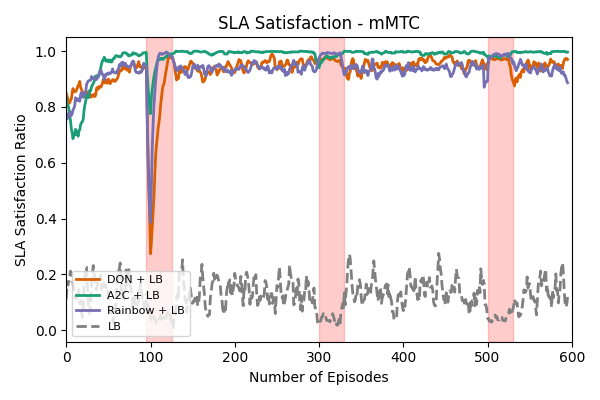
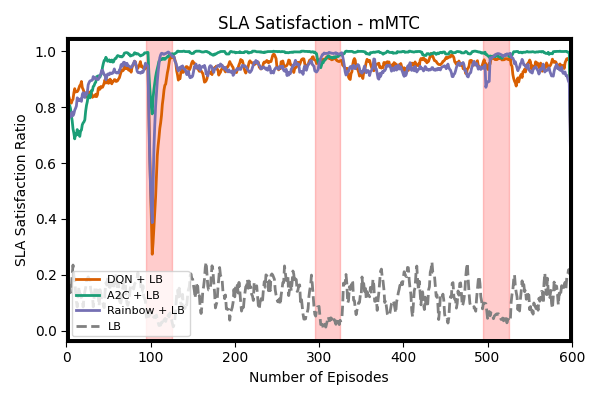
Stable ver (29Jul)

Changed region(s): [[0.06, 0.09, 0.96, 0.87]]

diff --git a/Compare.py b/Compare.py
@@ -149,7 +149,7 @@ mean_a2c_mmtc_blocks = np.nanmean(a2c_mmtc_blocks, axis=0)
 mean_rdqn_mmtc_blocks = np.nanmean(rdqn_mmtc_blocks, axis=0)
 
 def smooth(data, window=5):
-    return np.convolve(data, np.ones(window)/window, mode='valid')
+    return np.convolve(data, np.ones(window)/window, mode='same')
 
 def adjust_std_and_smooth(mean_data, std_data):
     smoothed_mean = smooth(mean_data)
@@ -374,14 +374,14 @@ def plot_results():
     dqn_mean, dqn_std = adjust_std_and_smooth(mean_dqn, std_dqn)
     a2c_mean, a2c_std = adjust_std_and_smooth(mean_a2c, std_a2c)
     rdqn_mean, rdqn_std = adjust_std_and_smooth(mean_rdqn, std_rdqn)
-    baseline_mean = smooth(baseline_rewards)
+    baseline_mean = smooth(baseline_rewards, window=5)
 
     # --- Compute ratio metric: min_util / max_util for each method ---
     with np.errstate(invalid='ignore', divide='ignore'):
-        dqn_ratio = smooth(np.nan_to_num(mean_dqn_min / mean_dqn_max, nan=0.0, posinf=0.0, neginf=0.0))
-        a2c_ratio = smooth(np.nan_to_num(mean_a2c_min / mean_a2c_max, nan=0.0, posinf=0.0, neginf=0.0))
-        rdqn_ratio = smooth(np.nan_to_num(mean_rdqn_min / mean_rdqn_max, nan=0.0, posinf=0.0, neginf=0.0))
-        baseline_ratio = smooth(np.nan_to_num(baseline_min / baseline_max, nan=0.0, posinf=0.0, neginf=0.0))
+        dqn_ratio = smooth(np.nan_to_num(mean_dqn_min / mean_dqn_max, nan=0.0, posinf=0.0, neginf=0.0), window=5)
+        a2c_ratio = smooth(np.nan_to_num(mean_a2c_min / mean_a2c_max, nan=0.0, posinf=0.0, neginf=0.0), window=5)
+        rdqn_ratio = smooth(np.nan_to_num(mean_rdqn_min / mean_rdqn_max, nan=0.0, posinf=0.0, neginf=0.0), window=5)
+        baseline_ratio = smooth(np.nan_to_num(baseline_min / baseline_max, nan=0.0, posinf=0.0, neginf=0.0), window=5)
 
     plt.plot(dqn_ratio, label='DQN + LB', color='#d95f02', linewidth=2, linestyle='-')
     plt.plot(a2c_ratio, label='A2C + LB', color='#1b9e77', linewidth=2, linestyle='-')
@@ -389,11 +389,16 @@ def plot_results():
     plt.plot(baseline_ratio, label='LB', color='gray', linewidth=2, linestyle='--')
 
     plt.xlim(0, 600)
+    plt.axvline(0, color='black', linewidth=5)
+    plt.axvline(600, color='black', linewidth=5)
+    ymin, ymax = plt.ylim()
+    plt.axhline(ymin, color='black', linewidth=5)
+    plt.axhline(ymax, color='black', linewidth=5)
     plt.title("Network Slicing Load Balance Ratio (min/max)")
     plt.xlabel("Number of Episodes")
     plt.ylabel("Min/Max Utilization Ratio")
     # --- Mark disruption windows with shaded regions ---
-    for start, duration in [(95, 30), (300, 30), (500, 30)]:
+    for start, duration in [(95, 30), (295, 30), (495, 30)]:
         plt.axvspan(start, start + duration, color='red', alpha=0.2, label=None)
     plt.legend()
     plt.tight_layout()
@@ -402,14 +407,19 @@ def plot_results():
 
 def plot_std_metric():
     plt.figure(figsize=(6, 4))
-    plt.plot(smooth(mean_dqn_std), label='DQN + LB', color='#d95f02', linewidth=2, linestyle='-')
-    plt.plot(smooth(mean_a2c_std), label='A2C + LB', color='#1b9e77', linewidth=2, linestyle='-')
-    plt.plot(smooth(mean_rdqn_std), label='Rainbow + LB', color='#7570b3', linewidth=2, linestyle='-')
+    plt.plot(smooth(mean_dqn_std, window=5), label='DQN + LB', color='#d95f02', linewidth=2, linestyle='-')
+    plt.plot(smooth(mean_a2c_std, window=5), label='A2C + LB', color='#1b9e77', linewidth=2, linestyle='-')
+    plt.plot(smooth(mean_rdqn_std, window=5), label='Rainbow + LB', color='#7570b3', linewidth=2, linestyle='-')
     plt.title("Std Dev of Slice Utilization")
     plt.xlabel("Number of Episodes")
     plt.ylabel("Std Dev (Normalized Usage)")
     plt.xlim(0, 600)
-    for start, duration in [(95, 30), (300, 30), (500, 30)]:
+    plt.axvline(0, color='black', linewidth=5)
+    plt.axvline(600, color='black', linewidth=5)
+    ymin, ymax = plt.ylim()
+    plt.axhline(ymin, color='black', linewidth=5)
+    plt.axhline(ymax, color='black', linewidth=5)
+    for start, duration in [(95, 30), (295, 30), (495, 30)]:
         plt.axvspan(start, start + duration, color='red', alpha=0.2, label=None)
     plt.legend()
     plt.tight_layout()
@@ -418,16 +428,21 @@ def plot_std_metric():
 
 def plot_block_rate_urllc():
     plt.figure(figsize=(6, 4))
-    plt.plot(smooth(mean_dqn_urllc_blocks), label='DQN + LB', color='#d95f02', linestyle='-', linewidth=2)
-    plt.plot(smooth(mean_a2c_urllc_blocks), label='A2C + LB', color='#1b9e77', linestyle='-', linewidth=2)
-    plt.plot(smooth(mean_rdqn_urllc_blocks), label='Rainbow + LB', color='#7570b3', linestyle='-', linewidth=2)
-    plt.plot(smooth(baseline_urllc_blocks), label='LB', color='gray', linewidth=2, linestyle='--')
+    plt.plot(smooth(mean_dqn_urllc_blocks, window=5), label='DQN + LB', color='#d95f02', linestyle='-', linewidth=2)
+    plt.plot(smooth(mean_a2c_urllc_blocks, window=5), label='A2C + LB', color='#1b9e77', linestyle='-', linewidth=2)
+    plt.plot(smooth(mean_rdqn_urllc_blocks, window=5), label='Rainbow + LB', color='#7570b3', linestyle='-', linewidth=2)
+    plt.plot(smooth(baseline_urllc_blocks, window=5), label='LB', color='gray', linewidth=2, linestyle='--')
     plt.title("Block Rate - URLLC Slice")
     plt.xlabel("Number of Episodes")
     plt.ylabel("Mean Block Count per Episode")
     plt.xlim(0, 600)
+    plt.axvline(0, color='black', linewidth=5)
+    plt.axvline(600, color='black', linewidth=5)
+    ymin, ymax = plt.ylim()
+    plt.axhline(ymin, color='black', linewidth=5)
+    plt.axhline(ymax, color='black', linewidth=5)
     # --- Mark disruption windows with shaded regions ---
-    for start, duration in [(95, 30), (300, 30), (500, 30)]:
+    for start, duration in [(95, 30), (295, 30), (495, 30)]:
         plt.axvspan(start, start + duration, color='red', alpha=0.2, label=None)
     plt.legend()
     plt.tight_layout()
@@ -436,16 +451,21 @@ def plot_block_rate_urllc():
 
 def plot_block_rate_embb():
     plt.figure(figsize=(6, 4))
-    plt.plot(smooth(mean_dqn_embb_blocks), label='DQN + LB', color='#d95f02', linestyle='-', linewidth=2)
-    plt.plot(smooth(mean_a2c_embb_blocks), label='A2C + LB', color='#1b9e77', linestyle='-', linewidth=2)
-    plt.plot(smooth(mean_rdqn_embb_blocks), label='Rainbow + LB', color='#7570b3', linestyle='-', linewidth=2)
-    plt.plot(smooth(baseline_embb_blocks), label='LB', color='gray', linewidth=2, linestyle='--')
+    plt.plot(smooth(mean_dqn_embb_blocks, window=5), label='DQN + LB', color='#d95f02', linestyle='-', linewidth=2)
+    plt.plot(smooth(mean_a2c_embb_blocks, window=5), label='A2C + LB', color='#1b9e77', linestyle='-', linewidth=2)
+    plt.plot(smooth(mean_rdqn_embb_blocks, window=5), label='Rainbow + LB', color='#7570b3', linestyle='-', linewidth=2)
+    plt.plot(smooth(baseline_embb_blocks, window=5), label='LB', color='gray', linewidth=2, linestyle='--')
     plt.title("Block Rate - eMBB Slice")
     plt.xlabel("Number of Episodes")
     plt.ylabel("Mean Block Count per Episode")
     plt.xlim(0, 600)
+    plt.axvline(0, color='black', linewidth=5)
+    plt.axvline(600, color='black', linewidth=5)
+    ymin, ymax = plt.ylim()
+    plt.axhline(ymin, color='black', linewidth=5)
+    plt.axhline(ymax, color='black', linewidth=5)
     # --- Mark disruption windows with shaded regions ---
-    for start, duration in [(95, 30), (300, 30), (500, 30)]:
+    for start, duration in [(95, 30), (295, 30), (495, 30)]:
         plt.axvspan(start, start + duration, color='red', alpha=0.2, label=None)
     plt.legend(loc='upper right')
     plt.tight_layout()
@@ -454,16 +474,21 @@ def plot_block_rate_embb():
 
 def plot_block_rate_mmtc():
     plt.figure(figsize=(6, 4))
-    plt.plot(smooth(mean_dqn_mmtc_blocks), label='DQN + LB', color='#d95f02', linestyle='-', linewidth=2)
-    plt.plot(smooth(mean_a2c_mmtc_blocks), label='A2C + LB', color='#1b9e77', linestyle='-', linewidth=2)
-    plt.plot(smooth(mean_rdqn_mmtc_blocks), label='Rainbow + LB', color='#7570b3', linestyle='-', linewidth=2)
-    plt.plot(smooth(baseline_mmtc_blocks), label='LB', color='gray', linewidth=2, linestyle='--')
+    plt.plot(smooth(mean_dqn_mmtc_blocks, window=5), label='DQN + LB', color='#d95f02', linestyle='-', linewidth=2)
+    plt.plot(smooth(mean_a2c_mmtc_blocks, window=5), label='A2C + LB', color='#1b9e77', linestyle='-', linewidth=2)
+    plt.plot(smooth(mean_rdqn_mmtc_blocks, window=5), label='Rainbow + LB', color='#7570b3', linestyle='-', linewidth=2)
+    plt.plot(smooth(baseline_mmtc_blocks, window=5), label='LB', color='gray', linewidth=2, linestyle='--')
     plt.title("Block Rate - mMTC Slice")
     plt.xlabel("Number of Episodes")
     plt.ylabel("Mean Block Count per Episode")
     plt.xlim(0, 600)
+    plt.axvline(0, color='black', linewidth=5)
+    plt.axvline(600, color='black', linewidth=5)
+    ymin, ymax = plt.ylim()
+    plt.axhline(ymin, color='black', linewidth=5)
+    plt.axhline(ymax, color='black', linewidth=5)
     # --- Mark disruption windows with shaded regions ---
-    for start, duration in [(95, 30), (300, 30), (500, 30)]:
+    for start, duration in [(95, 30), (295, 30), (495, 30)]:
         plt.axvspan(start, start + duration, color='red', alpha=0.2, label=None)
     plt.legend()
     plt.tight_layout()
@@ -472,15 +497,20 @@ def plot_block_rate_mmtc():
 
 def plot_sla_satisfaction_urllc():
     plt.figure(figsize=(6, 4))
-    plt.plot(smooth(mean_dqn_urllc_sla), label='DQN + LB', color='#d95f02', linewidth=2, linestyle='-')
-    plt.plot(smooth(mean_a2c_urllc_sla), label='A2C + LB', color='#1b9e77', linewidth=2, linestyle='-')
-    plt.plot(smooth(mean_rdqn_urllc_sla), label='Rainbow + LB', color='#7570b3', linewidth=2, linestyle='-')
-    plt.plot(smooth(baseline_urllc_sla), label='LB', color='gray', linewidth=2, linestyle='--')
+    plt.plot(smooth(mean_dqn_urllc_sla, window=5), label='DQN + LB', color='#d95f02', linewidth=2, linestyle='-')
+    plt.plot(smooth(mean_a2c_urllc_sla, window=5), label='A2C + LB', color='#1b9e77', linewidth=2, linestyle='-')
+    plt.plot(smooth(mean_rdqn_urllc_sla, window=5), label='Rainbow + LB', color='#7570b3', linewidth=2, linestyle='-')
+    plt.plot(smooth(baseline_urllc_sla, window=5), label='LB', color='gray', linewidth=2, linestyle='--')
     plt.title("SLA Satisfaction - URLLC")
     plt.xlabel("Number of Episodes")
     plt.ylabel("SLA Satisfaction Ratio")
     plt.xlim(0, 600)
-    for start, duration in [(95, 30), (300, 30), (500, 30)]:
+    plt.axvline(0, color='black', linewidth=5)
+    plt.axvline(600, color='black', linewidth=5)
+    ymin, ymax = plt.ylim()
+    plt.axhline(ymin, color='black', linewidth=5)
+    plt.axhline(ymax, color='black', linewidth=5)
+    for start, duration in [(95, 30), (295, 30), (495, 30)]:
         plt.axvspan(start, start + duration, color='red', alpha=0.2, label=None)
     plt.legend(loc='lower left', fontsize=8)
     plt.tight_layout()
@@ -489,15 +519,20 @@ def plot_sla_satisfaction_urllc():
 
 def plot_sla_satisfaction_embb():
     plt.figure(figsize=(6, 4))
-    plt.plot(smooth(mean_dqn_embb_sla), label='DQN + LB', color='#d95f02', linewidth=2, linestyle='-')
-    plt.plot(smooth(mean_a2c_embb_sla), label='A2C + LB', color='#1b9e77', linewidth=2, linestyle='-')
-    plt.plot(smooth(mean_rdqn_embb_sla), label='Rainbow + LB', color='#7570b3', linewidth=2, linestyle='-')
-    plt.plot(smooth(baseline_embb_sla), label='LB', color='gray', linewidth=2, linestyle='--')
+    plt.plot(smooth(mean_dqn_embb_sla, window=5), label='DQN + LB', color='#d95f02', linewidth=2, linestyle='-')
+    plt.plot(smooth(mean_a2c_embb_sla, window=5), label='A2C + LB', color='#1b9e77', linewidth=2, linestyle='-')
+    plt.plot(smooth(mean_rdqn_embb_sla, window=5), label='Rainbow + LB', color='#7570b3', linewidth=2, linestyle='-')
+    plt.plot(smooth(baseline_embb_sla, window=5), label='LB', color='gray', linewidth=2, linestyle='--')
     plt.title("SLA Satisfaction - eMBB")
     plt.xlabel("Number of Episodes")
     plt.ylabel("SLA Satisfaction Ratio")
     plt.xlim(0, 600)
-    for start, duration in [(95, 30), (300, 30), (500, 30)]:
+    plt.axvline(0, color='black', linewidth=5)
+    plt.axvline(600, color='black', linewidth=5)
+    ymin, ymax = plt.ylim()
+    plt.axhline(ymin, color='black', linewidth=5)
+    plt.axhline(ymax, color='black', linewidth=5)
+    for start, duration in [(95, 30), (295, 30), (495, 30)]:
         plt.axvspan(start, start + duration, color='red', alpha=0.2, label=None)
     plt.legend(loc='lower left', fontsize=8)
     plt.tight_layout()
@@ -506,15 +541,20 @@ def plot_sla_satisfaction_embb():
 
 def plot_sla_satisfaction_mmtc():
     plt.figure(figsize=(6, 4))
-    plt.plot(smooth(mean_dqn_mmtc_sla), label='DQN + LB', color='#d95f02', linewidth=2, linestyle='-')
-    plt.plot(smooth(mean_a2c_mmtc_sla), label='A2C + LB', color='#1b9e77', linewidth=2, linestyle='-')
-    plt.plot(smooth(mean_rdqn_mmtc_sla), label='Rainbow + LB', color='#7570b3', linewidth=2, linestyle='-')
-    plt.plot(smooth(baseline_mmtc_sla), label='LB', color='gray', linewidth=2, linestyle='--')
+    plt.plot(smooth(mean_dqn_mmtc_sla, window=5), label='DQN + LB', color='#d95f02', linewidth=2, linestyle='-')
+    plt.plot(smooth(mean_a2c_mmtc_sla, window=5), label='A2C + LB', color='#1b9e77', linewidth=2, linestyle='-')
+    plt.plot(smooth(mean_rdqn_mmtc_sla, window=5), label='Rainbow + LB', color='#7570b3', linewidth=2, linestyle='-')
+    plt.plot(smooth(baseline_mmtc_sla, window=5), label='LB', color='gray', linewidth=2, linestyle='--')
     plt.title("SLA Satisfaction - mMTC")
     plt.xlabel("Number of Episodes")
     plt.ylabel("SLA Satisfaction Ratio")
     plt.xlim(0, 600)
-    for start, duration in [(95, 30), (300, 30), (500, 30)]:
+    plt.axvline(0, color='black', linewidth=5)
+    plt.axvline(600, color='black', linewidth=5)
+    ymin, ymax = plt.ylim()
+    plt.axhline(ymin, color='black', linewidth=5)
+    plt.axhline(ymax, color='black', linewidth=5)
+    for start, duration in [(95, 30), (295, 30), (495, 30)]:
         plt.axvspan(start, start + duration, color='red', alpha=0.2, label=None)
     plt.legend(loc='lower left', fontsize=8)
     plt.tight_layout()
